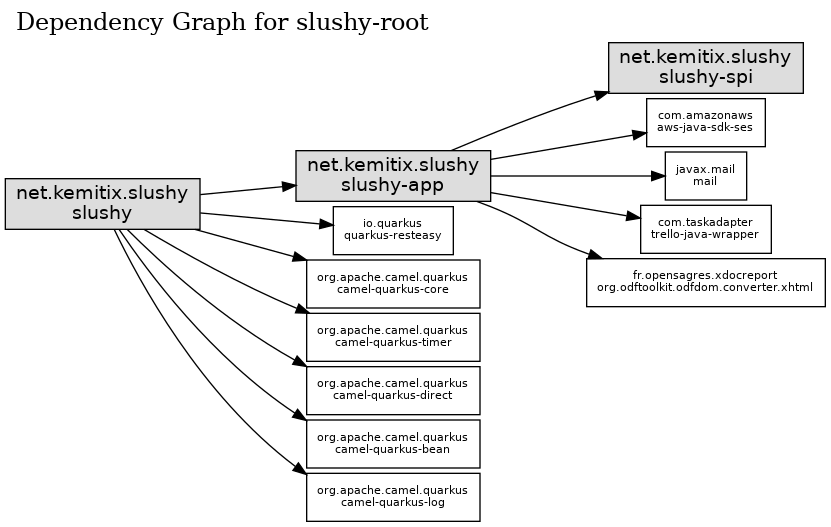
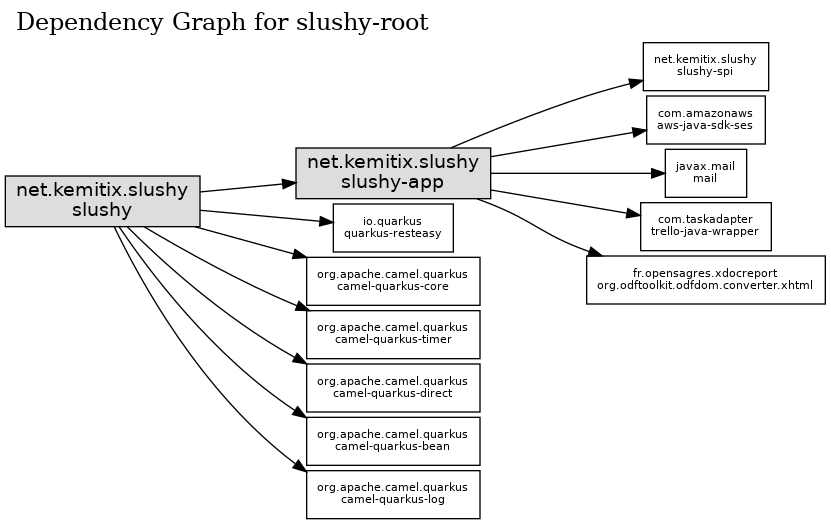
merge spi module into app module (#34)

diff --git a/slushy-app/src/main/java/net/kemitix/slushy/app/trello/TrelloBoard.java b/slushy-app/src/main/java/net/kemitix/slushy/app/trello/TrelloBoard.java
@@ -4,13 +4,9 @@ import com.julienvey.trello.NotFoundException;
 import com.julienvey.trello.Trello;
 import com.julienvey.trello.domain.*;
 import com.julienvey.trello.domain.Attachment;
-import lombok.Getter;
 import lombok.extern.java.Log;
 import net.kemitix.slushy.app.SlushyCard;
-import net.kemitix.slushy.app.hold.HoldConfig;
-import net.kemitix.slushy.app.inbox.InboxConfig;
-import net.kemitix.slushy.app.reject.RejectConfig;
-import net.kemitix.slushy.spi.SlushyConfig;
+import net.kemitix.slushy.app.SlushyConfig;
 
 import javax.annotation.PostConstruct;
 import javax.enterprise.context.ApplicationScoped;

diff --git a/slushy-app/src/main/java/net/kemitix/slushy/app/trello/TrelloProducers.java b/slushy-app/src/main/java/net/kemitix/slushy/app/trello/TrelloProducers.java
@@ -3,9 +3,8 @@ package net.kemitix.slushy.app.trello;
 import com.julienvey.trello.Trello;
 import com.julienvey.trello.TrelloHttpClient;
 import com.julienvey.trello.domain.Member;
-import com.julienvey.trello.impl.TrelloImpl;
 import com.julienvey.trello.impl.http.JDKTrelloHttpClient;
-import net.kemitix.slushy.spi.SlushyConfig;
+import net.kemitix.slushy.app.SlushyConfig;
 
 import javax.enterprise.context.ApplicationScoped;
 import javax.enterprise.inject.Produces;

diff --git a/slushy-app/src/main/java/net/kemitix/slushy/app/reject/RejectRoutes.java b/slushy-app/src/main/java/net/kemitix/slushy/app/reject/RejectRoutes.java
@@ -6,7 +6,7 @@ import net.kemitix.slushy.app.RestedFilter;
 import net.kemitix.slushy.app.SlushyCard;
 import net.kemitix.slushy.app.email.EmailService;
 import net.kemitix.slushy.app.trello.TrelloBoard;
-import net.kemitix.slushy.spi.SlushyConfig;
+import net.kemitix.slushy.app.SlushyConfig;
 import org.apache.camel.builder.RouteBuilder;
 import org.apache.camel.builder.SimpleBuilder;
 import org.apache.camel.builder.ValueBuilder;

diff --git a/slushy-app/src/main/java/net/kemitix/slushy/app/hold/HoldRoutes.java b/slushy-app/src/main/java/net/kemitix/slushy/app/hold/HoldRoutes.java
@@ -5,7 +5,7 @@ import net.kemitix.slushy.app.Comments;
 import net.kemitix.slushy.app.RestedFilter;
 import net.kemitix.slushy.app.email.EmailService;
 import net.kemitix.slushy.app.trello.TrelloBoard;
-import net.kemitix.slushy.spi.SlushyConfig;
+import net.kemitix.slushy.app.SlushyConfig;
 import org.apache.camel.builder.RouteBuilder;
 import org.apache.camel.builder.SimpleBuilder;
 import org.apache.camel.builder.ValueBuilder;

diff --git a/slushy-app/src/main/java/net/kemitix/slushy/app/inbox/InboxRoutes.java b/slushy-app/src/main/java/net/kemitix/slushy/app/inbox/InboxRoutes.java
@@ -6,7 +6,7 @@
  import net.kemitix.slushy.app.email.EmailService;
  import net.kemitix.slushy.app.fileconversion.ConversionService;
  import net.kemitix.slushy.app.trello.TrelloBoard;
- import net.kemitix.slushy.spi.SlushyConfig;
+ import net.kemitix.slushy.app.SlushyConfig;
  import org.apache.camel.builder.RouteBuilder;
  import org.apache.camel.builder.SimpleBuilder;
  import org.apache.camel.builder.ValueBuilder;

diff --git a/slushy-app/src/main/java/net/kemitix/slushy/app/badattachment/InvalidAttachmentRoute.java b/slushy-app/src/main/java/net/kemitix/slushy/app/badattachment/InvalidAttachmentRoute.java
@@ -2,7 +2,7 @@ package net.kemitix.slushy.app.badattachment;
 
 import net.kemitix.slushy.app.Comments;
 import net.kemitix.slushy.app.email.EmailService;
-import net.kemitix.slushy.spi.SlushyConfig;
+import net.kemitix.slushy.app.SlushyConfig;
 import org.apache.camel.builder.RouteBuilder;
 import org.apache.camel.builder.SimpleBuilder;
 import org.apache.camel.builder.ValueBuilder;

diff --git a/slushy-app/src/main/java/net/kemitix/slushy/app/multisub/MultiSubmissionRoute.java b/slushy-app/src/main/java/net/kemitix/slushy/app/multisub/MultiSubmissionRoute.java
@@ -2,7 +2,7 @@ package net.kemitix.slushy.app.multisub;
 
 import net.kemitix.slushy.app.Comments;
 import net.kemitix.slushy.app.email.EmailService;
-import net.kemitix.slushy.spi.SlushyConfig;
+import net.kemitix.slushy.app.SlushyConfig;
 import org.apache.camel.builder.RouteBuilder;
 import org.apache.camel.builder.SimpleBuilder;
 import org.apache.camel.builder.ValueBuilder;

diff --git a/slushy/src/main/java/net/kemitix/slushy/QuarkusSlushyConfig.java b/slushy/src/main/java/net/kemitix/slushy/QuarkusSlushyConfig.java
@@ -3,7 +3,7 @@ package net.kemitix.slushy;
 import lombok.Getter;
 import lombok.Setter;
 import lombok.extern.java.Log;
-import net.kemitix.slushy.spi.SlushyConfig;
+import net.kemitix.slushy.app.SlushyConfig;
 
 import javax.annotation.PostConstruct;
 import javax.enterprise.context.ApplicationScoped;

diff --git a/slushy-app/src/main/java/net/kemitix/slushy/app/SlushyConfig.java b/slushy-app/src/main/java/net/kemitix/slushy/app/SlushyConfig.java
@@ -1,4 +1,4 @@
-package net.kemitix.slushy.spi;
+package net.kemitix.slushy.app;
 
 public interface SlushyConfig {
 
